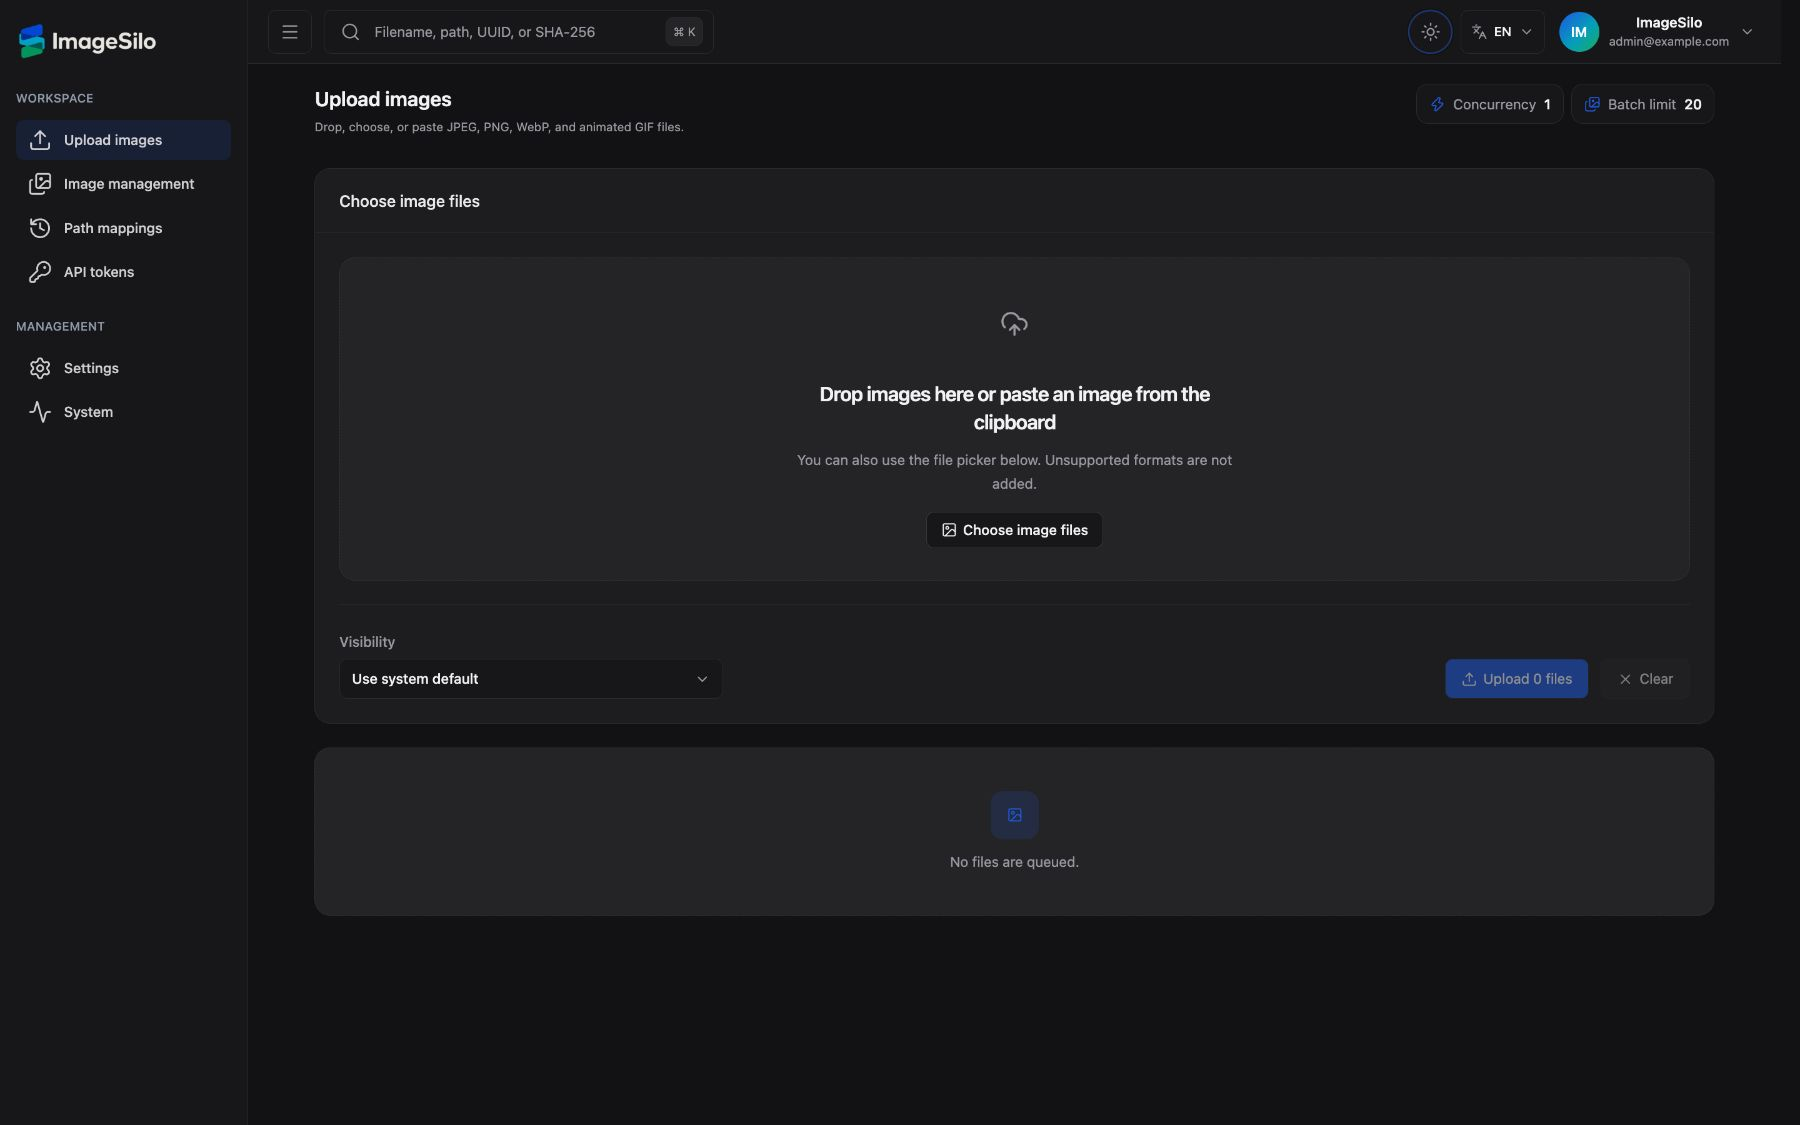
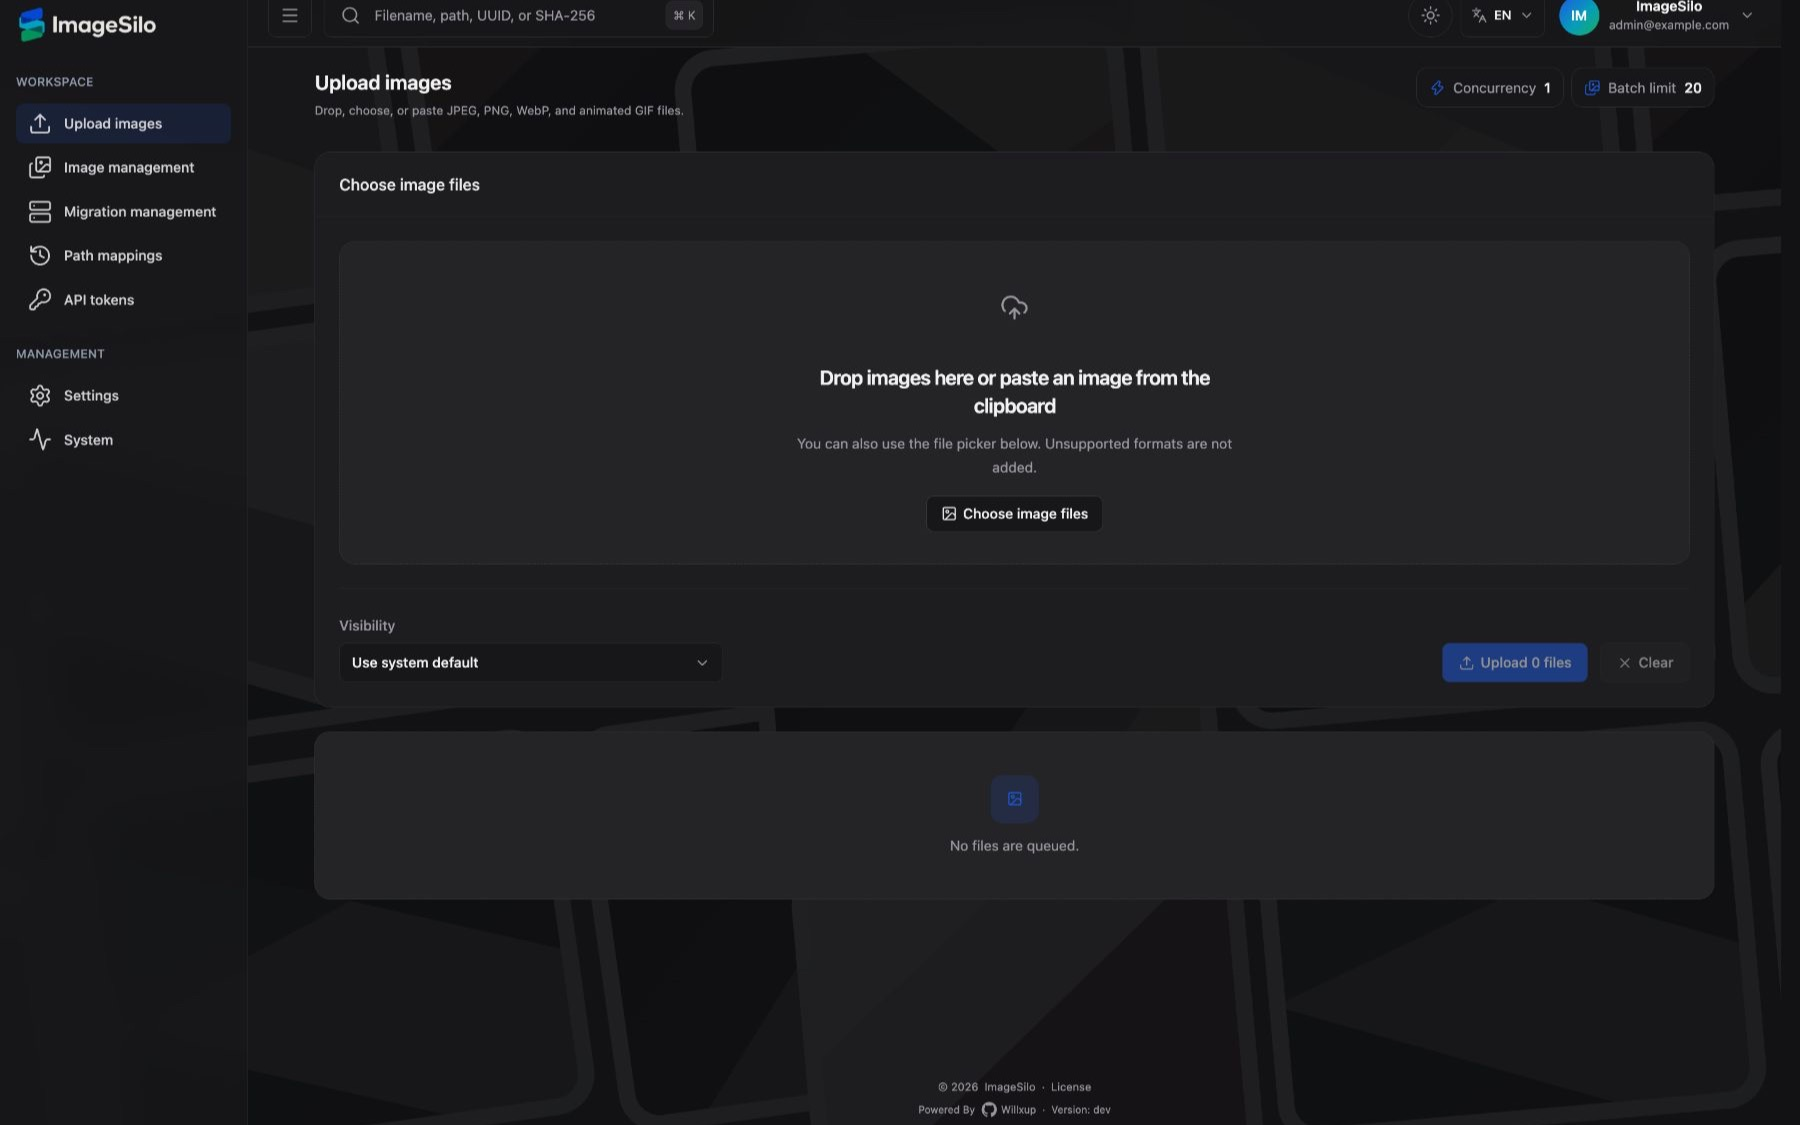
feat: extend admin background across shell

diff --git a/web/src/styles/globals.css b/web/src/styles/globals.css
@@ -111,7 +111,10 @@
   --tail-border: #e4e4e7;
   --tail-border-strong: #d4d4d8;
   --tail-brand-soft: #edf4ff;
-  --tail-header: rgba(250, 250, 250, 0.96);
+  --tail-sidebar: rgba(250, 250, 250, 0.72);
+  --tail-header: rgba(250, 250, 250, 0.68);
+  --tail-page-art-opacity: 0.12;
+  --tail-page-art-filter: brightness(0.64) saturate(0.62) contrast(0.94);
   --color-background: #f4f4f5;
   --color-foreground: #18181b;
   --color-card: var(--tail-card);
@@ -151,7 +154,10 @@
   --tail-border: #2f2f34;
   --tail-border-strong: #3f3f46;
   --tail-brand-soft: rgba(37, 99, 235, 0.14);
-  --tail-header: rgba(24, 24, 27, 0.96);
+  --tail-sidebar: rgba(24, 24, 27, 0.74);
+  --tail-header: rgba(24, 24, 27, 0.68);
+  --tail-page-art-opacity: 0.2;
+  --tail-page-art-filter: grayscale(0.52) brightness(0.38) saturate(0.48) contrast(1.08);
   --color-background: #111113;
   --color-foreground: #f4f4f5;
   --color-card: var(--tail-card);
@@ -323,9 +329,22 @@ input[type="checkbox"]:disabled {
 
 /* TailAdmin shell */
 .tail-admin-shell {
+  position: relative;
   min-height: 100vh;
   overflow-x: clip;
   background: var(--tail-page);
+  isolation: isolate;
+}
+
+.tail-admin-shell::before {
+  position: fixed;
+  z-index: 0;
+  inset: 0;
+  background: url('/brand/imagesilo-login-mosaic.svg') center / cover no-repeat;
+  content: "";
+  filter: var(--tail-page-art-filter);
+  opacity: var(--tail-page-art-opacity);
+  pointer-events: none;
 }
 
 .tail-sidebar {
@@ -338,9 +357,10 @@ input[type="checkbox"]:disabled {
   height: 100vh;
   flex-direction: column;
   border-right: 1px solid var(--tail-border);
-  background: var(--tail-surface);
+  background: var(--tail-sidebar);
   padding: 0 16px;
   color: var(--tail-text);
+  backdrop-filter: blur(18px) saturate(1.08);
   transition: width 300ms ease, transform 300ms ease, padding 300ms ease;
 }
 
@@ -423,11 +443,6 @@ input[type="checkbox"]:disabled {
   color: #d4d4d8;
 }
 
-:root[data-theme="dark"] .tail-sidebar,
-:root[data-theme="dark"] .tail-header {
-  background: var(--tail-surface);
-}
-
 .tail-nav-link:hover {
   background: #f2f4f7;
   color: #344054;
@@ -488,6 +503,8 @@ input[type="checkbox"]:disabled {
 }
 
 .tail-main-frame {
+  position: relative;
+  z-index: 1;
   display: flex;
   min-width: 0;
   min-height: 100vh;
@@ -507,7 +524,7 @@ input[type="checkbox"]:disabled {
   height: 64px;
   border-bottom: 1px solid var(--tail-border);
   background: var(--tail-header);
-  backdrop-filter: blur(14px);
+  backdrop-filter: blur(18px) saturate(1.08);
 }
 
 .tail-header-inner {
